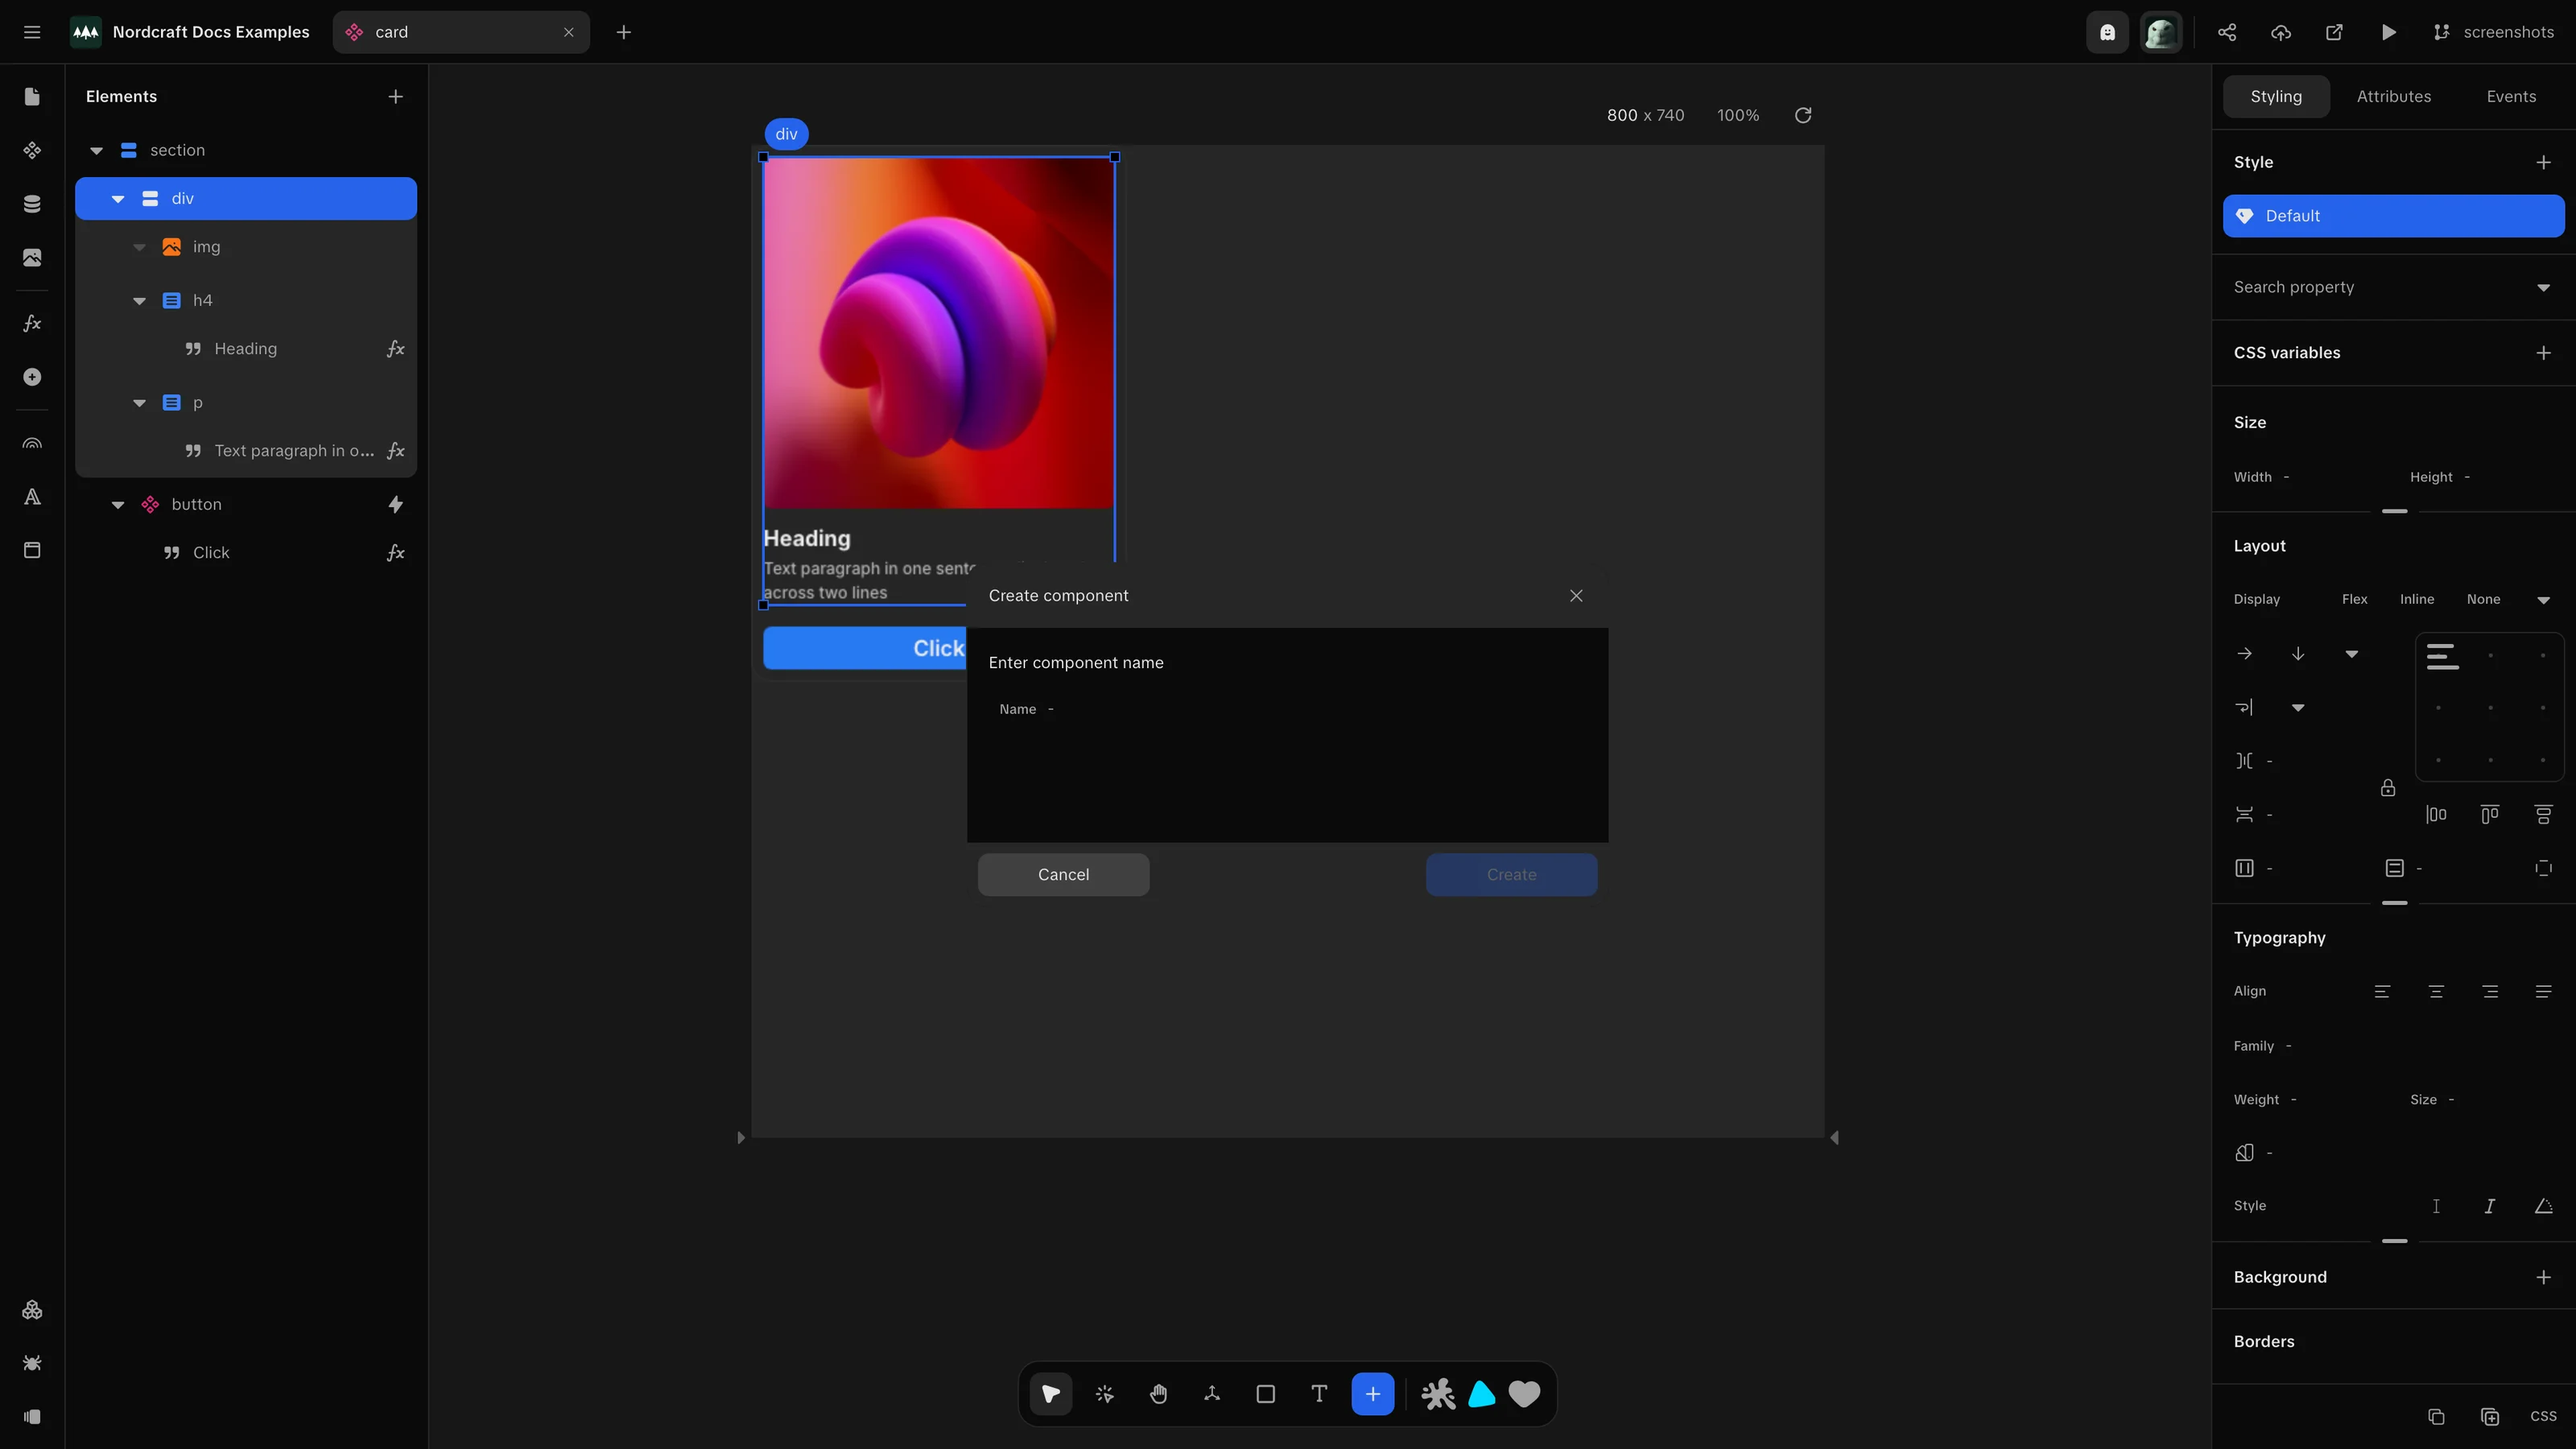
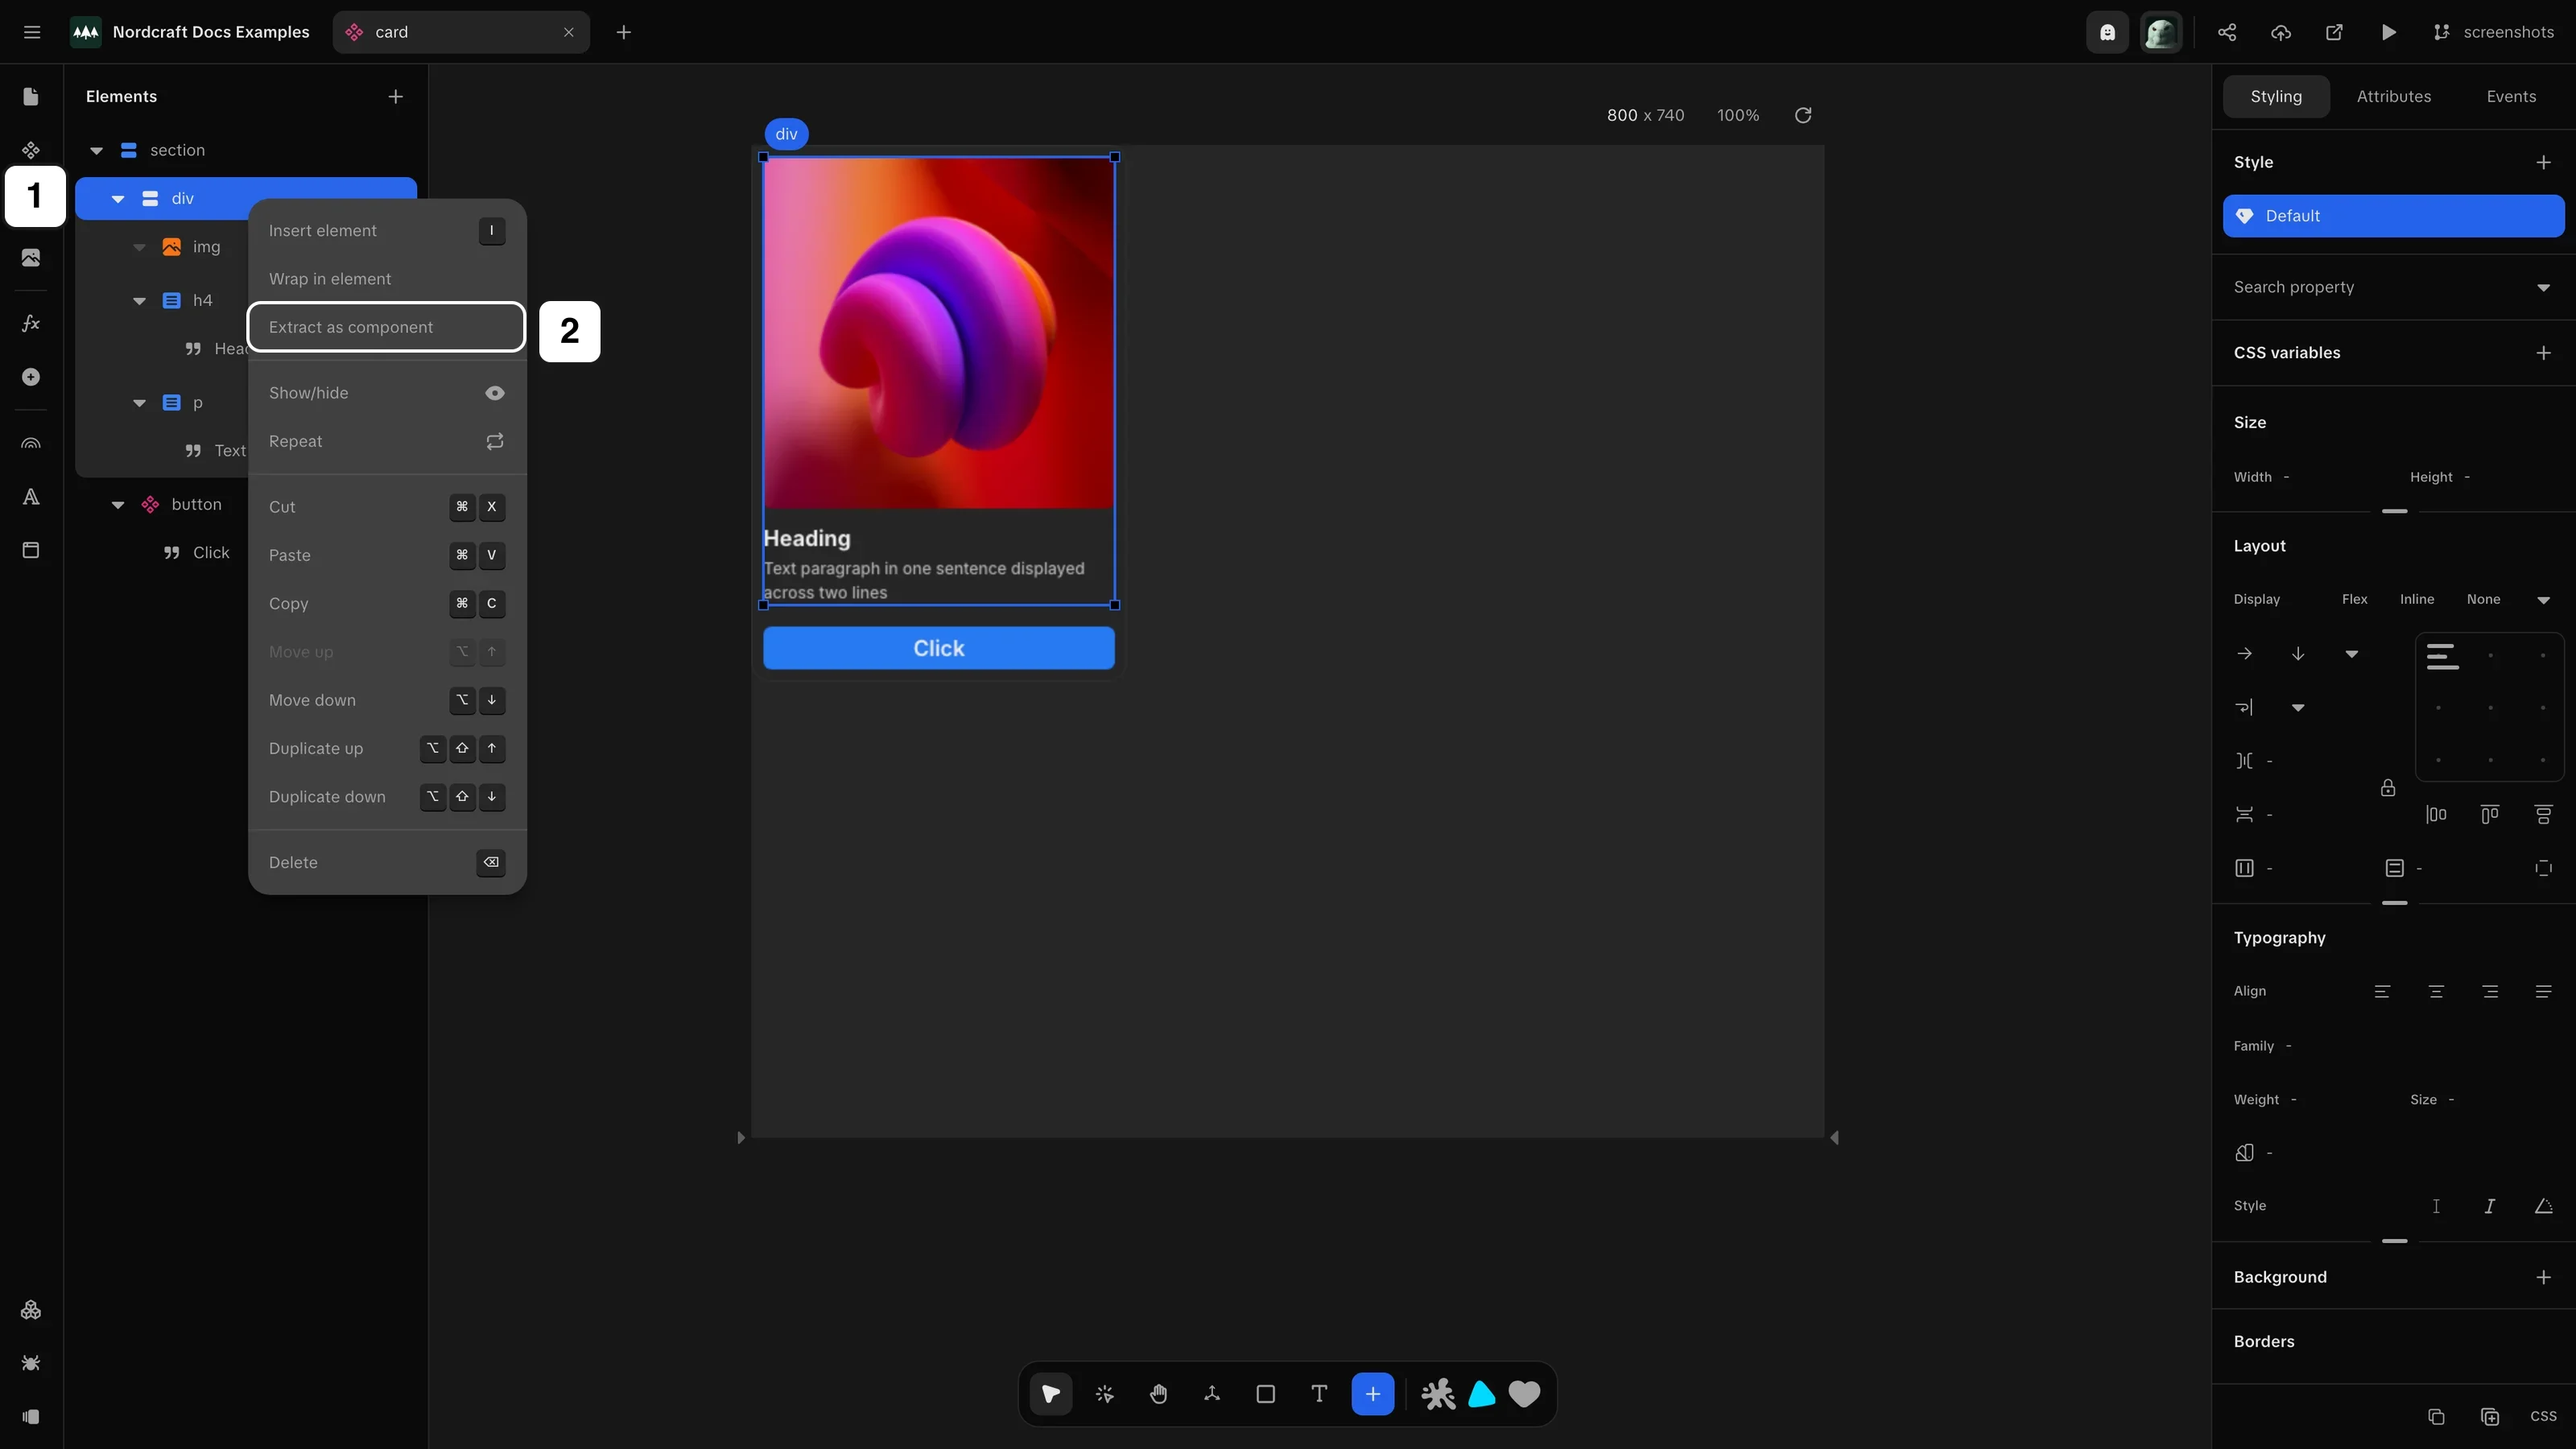
extract-as-component fix

Changed region(s): [[0.0938, 0.1244, 0.25, 0.6222], [0.375, 0.3733, 0.625, 0.6222], [0.0, 0.0933, 0.0312, 0.1556]]

diff --git a/docs/components/create-a-component/extract-as-component.screenshot.ts b/docs/components/create-a-component/extract-as-component.screenshot.ts
@@ -10,6 +10,27 @@ export default defineScreenshot({
       .click({
         button: 'right',
       })
-    await page.getByText('Extract as component').click()
   },
+  annotations: [
+    {
+      type: 'badge',
+      x: 1,
+      y: 51,
+      text: '1'
+    },
+    {
+      type: 'badge',
+      x: 167,
+      y: 93,
+      text: '2'
+    },
+    {
+      type: 'box',
+      x: 77,
+      y: 94,
+      width: 86,
+      height: 15,
+      rx: 4
+    }
+  ],
 })
